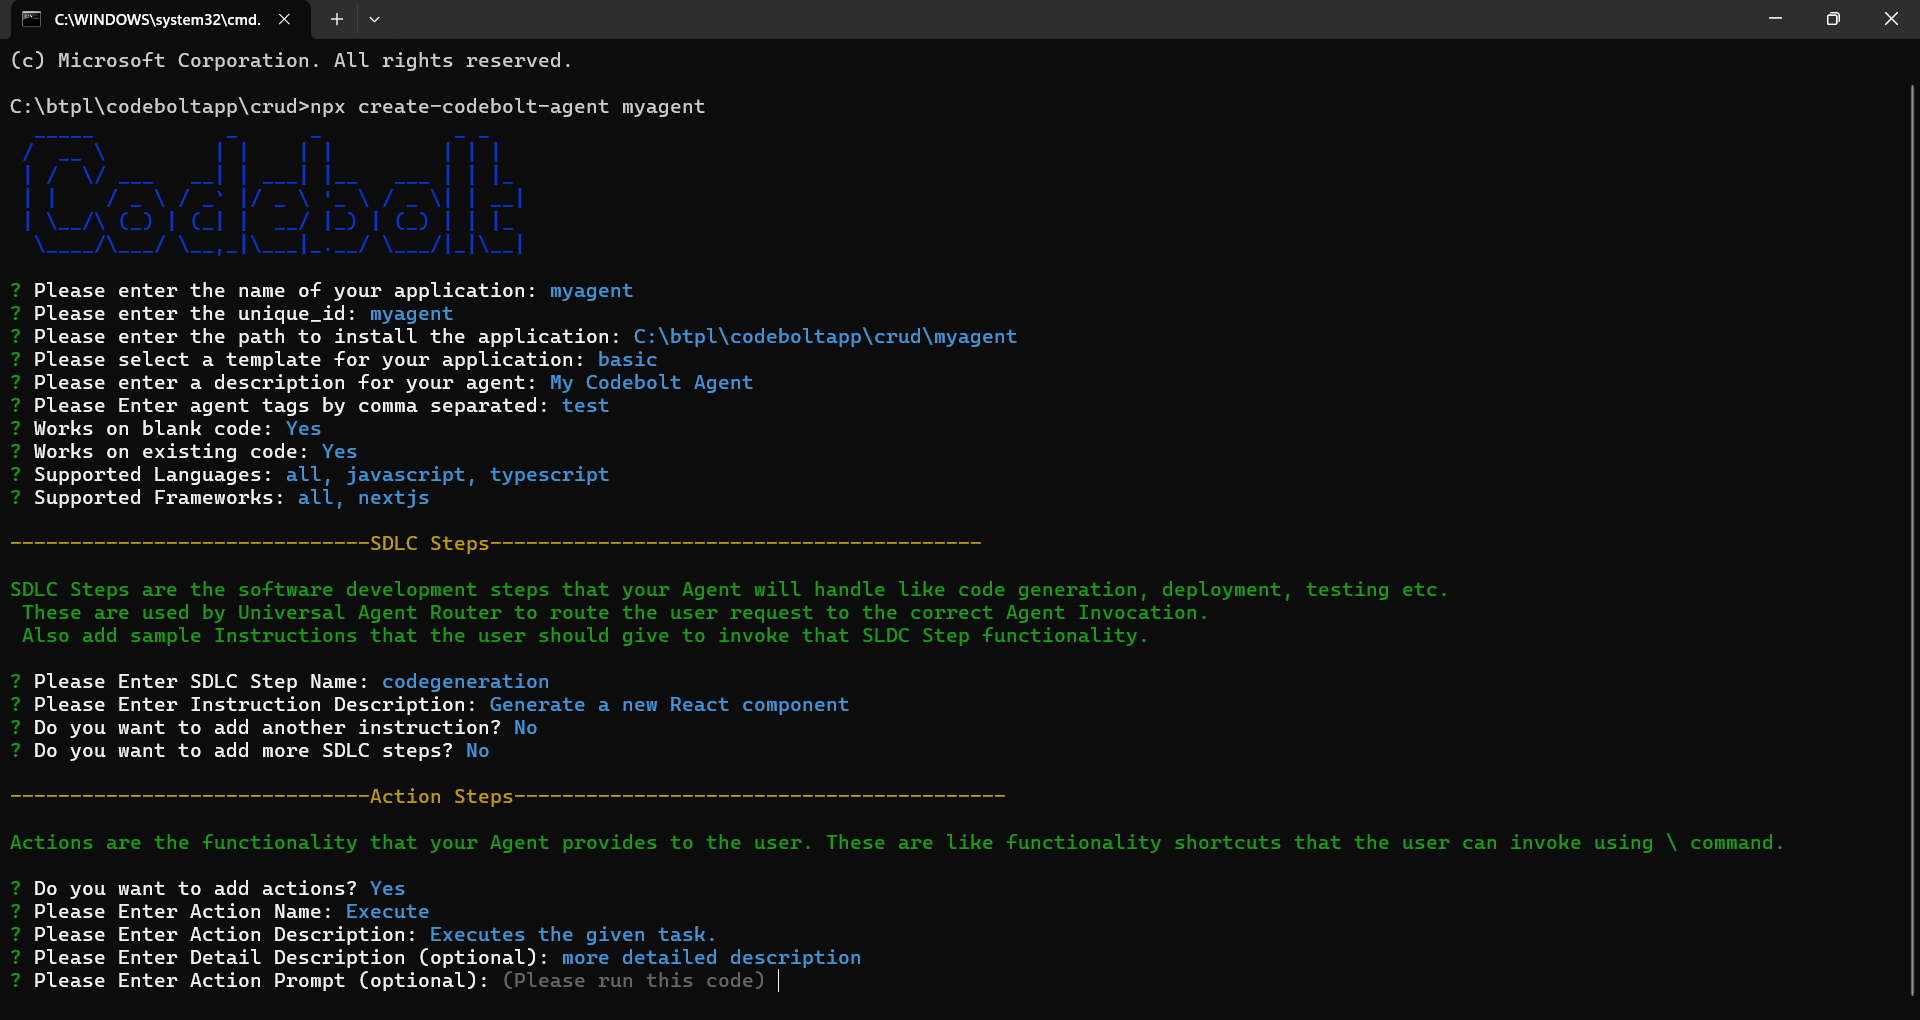
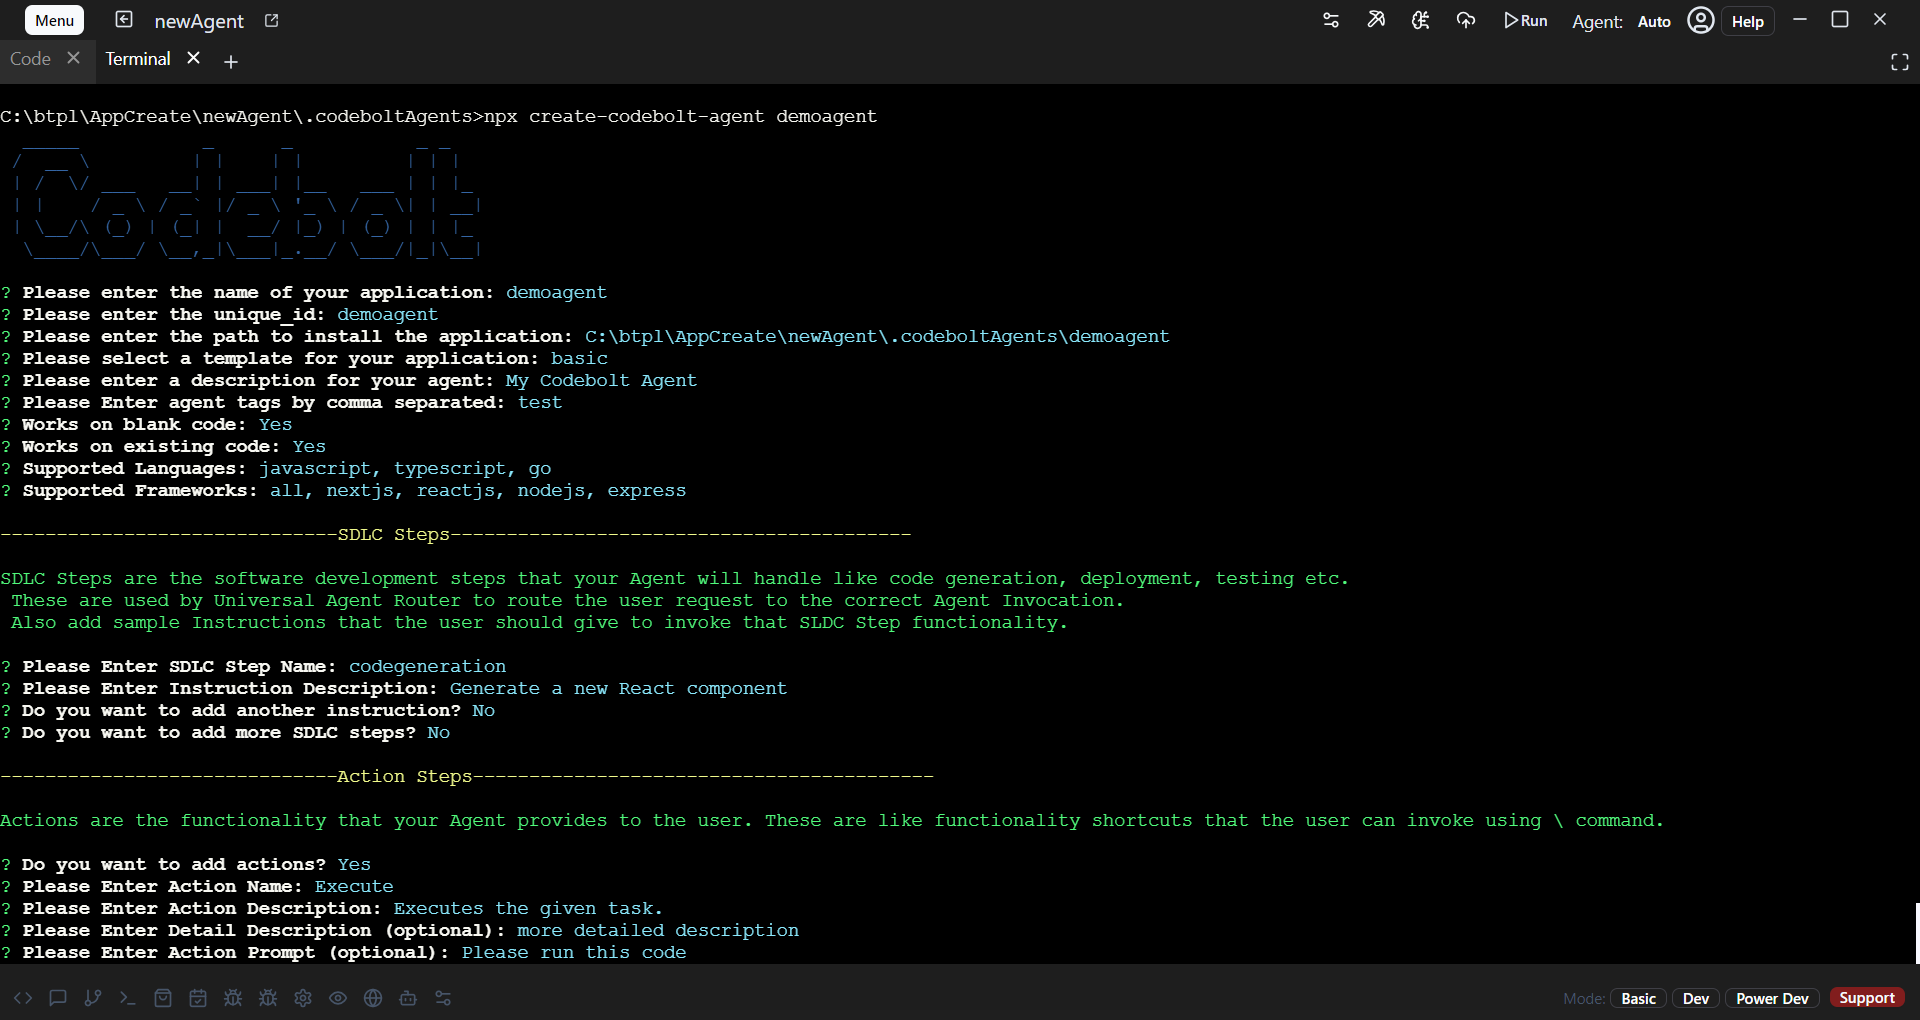
updated agents creating and local run agent

diff --git a/docs/agents/2_firstExtension.md b/docs/agents/2_firstExtension.md
@@ -9,18 +9,18 @@ Follow the steps below to create a new agent using Codebolt.
 - **Option 1: Use Agent Template**  
   Open Codebolt Application. Create Project In Workspace >  Select Agent Template > Create Project
   ![create agent](../../static/img/createAgent.png)
-  
+
+- *Navigate to the .codeboltAgents directory.*
+   ```bash
+      cd .codeboltAgents
+   
+   ```
+
 - **Option 2: Use Npx Command**  
   Open your terminal in the directory where you want the agent to be created and run the following command:  
   ```bash
   npx create-codebolt-agent your-agent-name
   ```
-
-Open your terminal in the directory where you want the agent to be created and run the following command:   
-
-```bash
-npx create-codebolt-agent your-agent-name
-```
 
 ![create agent](../../static/img/agent-create.png)
 

diff --git a/docs/agents/4_runExtension.md b/docs/agents/4_runExtension.md
@@ -5,11 +5,16 @@
 
 Follow the steps below to run a new agent locally Codebolt.
 
-### Step 1: Click On marketplace icon in buttom bar
+### Click On Agent: auto chat header
 
-### Step 2: Click On My Agents
-![install agent](../../static/img/installAgent.png)
-- **Click on "Add Agent"**
-- **Choose the folder containing the agent**
-- **The agent will be set up on your local machine**
+![install agent](../../static/img/localAgent.png)
+
+
+- *After clicking on Agent: auto, a popup will appear*
+
+- *The popup will have 3 categories: Installed, MarketPlace, and Local*
+
+- *Click on the Local category*
+
+- *Select your desired local agent*
 
